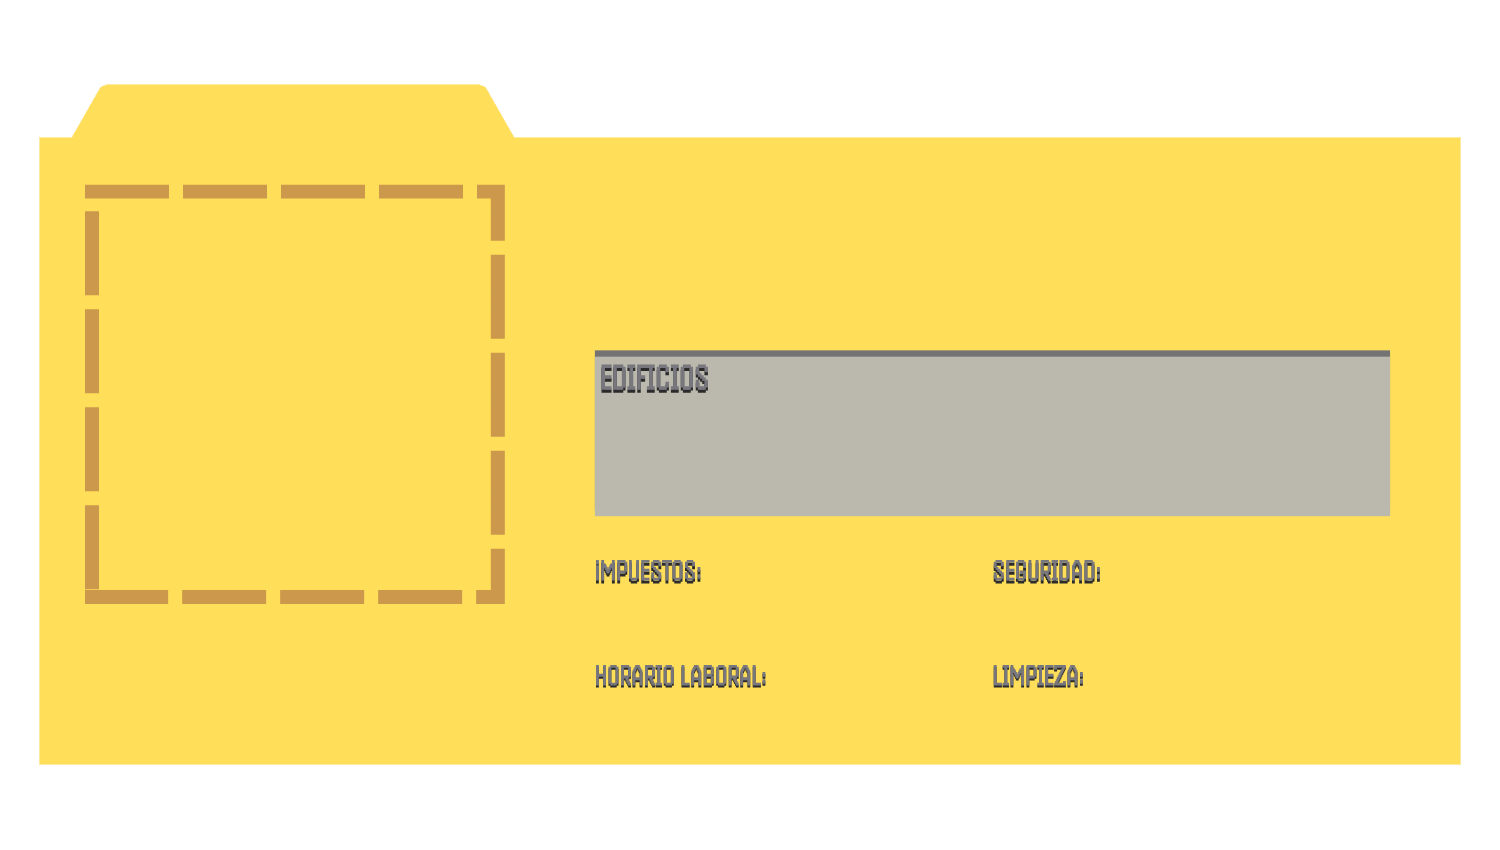
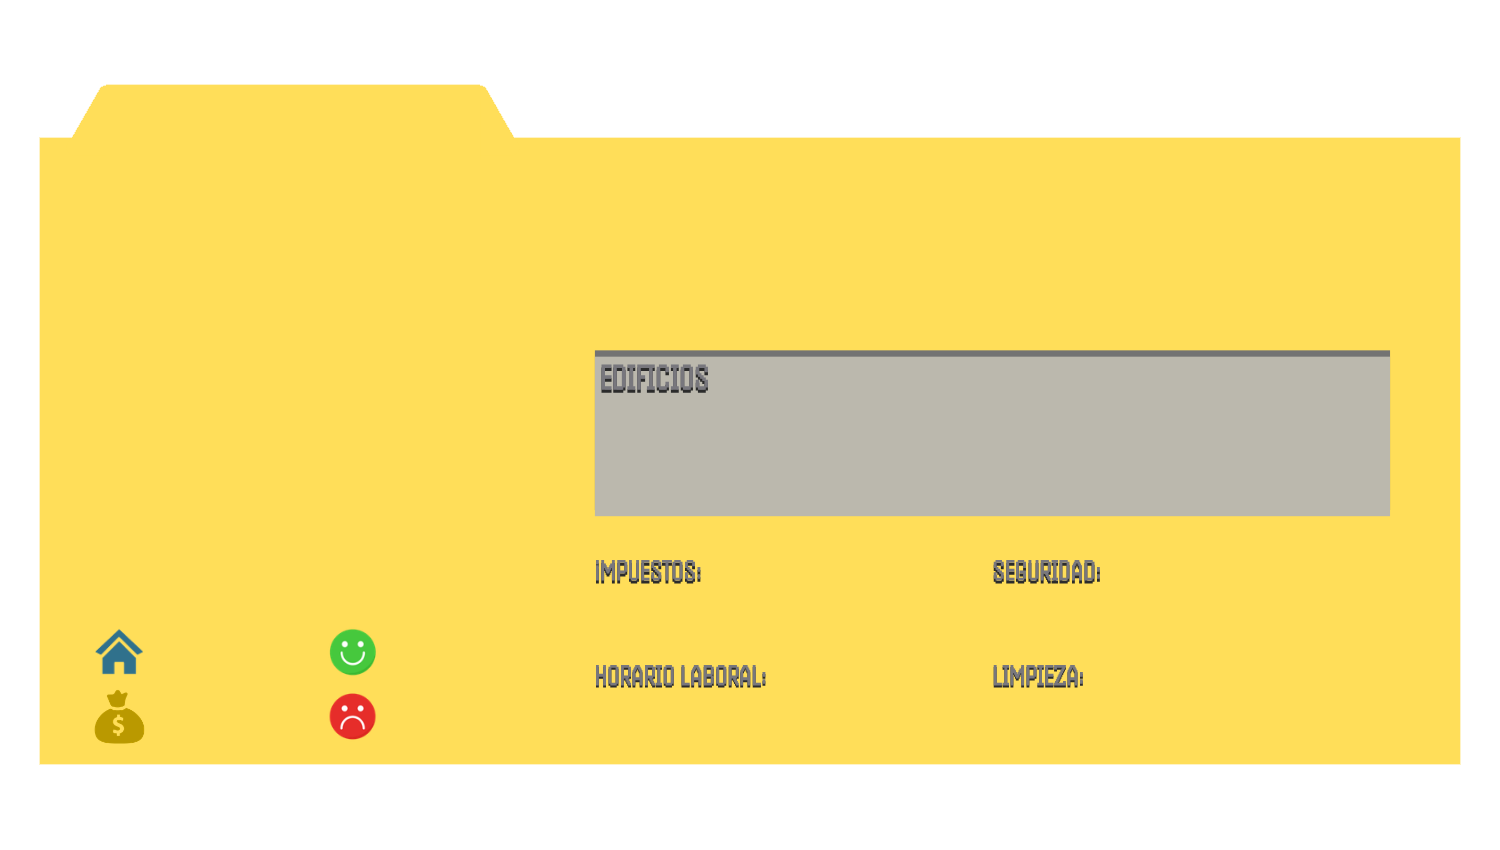
Iconos de info de distrito

Changed region(s): [[0.0307, 0.2141, 0.3373, 0.8871], [0.0307, 0.4894, 0.092, 0.5812], [0.0307, 0.3671, 0.092, 0.4588]]

diff --git a/src/scene/districtScene.js b/src/scene/districtScene.js
@@ -201,40 +201,40 @@ export default class DistrictScene extends Phaser.Scene {
         }); 
         return descText;
     }  
-    spawnScene(newWidth,newHeight,offsetX,offsetY){
+    spawnScene(newWidth,newHeight,offsetX,offsetY) {
         const list = this.district.getSceneList();
         const randomIndex = Math.floor(Math.random() * list.length);
         this.districtScene = this.add.image(newWidth-newWidth/2-offsetX*4-35,newHeight-newHeight/2-offsetY,list[randomIndex]);
         return this.districtScene;
     }
-    spawnDetailText(newWidth,newHeight,offsetX,offsetY){
+    spawnDetailText(newWidth,newHeight,offsetX,offsetY) {
         //POBLACION TOTAL
-        const populationText = this.add.text(newWidth/10, newHeight - newHeight/3 + offsetY*5, 'Poblacion: ' + this.district.getPopulation(), {
-            fontSize: '20px',
-            fontFamily: 'Impact',
-            fontStyle: 'italic',
-            color: '#000000'
+        const populationText = this.add.text(newWidth/10 + 80, newHeight - newHeight/3 + offsetY*5 + 5, this.district.getPopulation(), {
+            fontSize: '29px',
+            fontFamily: 'Handjet',
+            fontStyle: 'bold',
+            color: '#30718c'
         }).setDepth(1000);  
         // DINERO QUE SE GANA POR CICLO
-        const moneyText = this.add.text(newWidth/10, newHeight - newHeight/3 + offsetY*7, 'Dinero: ' + this.district.getMoneyGenerated(), {
-            fontSize: '20px',
-            fontFamily: 'Impact',
-            fontStyle: 'italic',
-            color: '#000000'
+        const moneyText = this.add.text(newWidth/10 + 80, newHeight - newHeight/3 + offsetY*9 + 5, this.district.getMoneyGenerated(), {
+            fontSize: '29px',
+            fontFamily: 'Handjet',
+            fontStyle: 'bold',
+            color: '#ba9900'
         }).setDepth(1000);  
         // HABITANTES A FAVOR
-        const inFavorText = this.add.text(newWidth/10 + offsetX*3, newHeight - newHeight/3 + offsetY*5, 'A favor: ' + this.district.getPopulation() * this.district.getSatisfaction() / 100, {
-            fontSize: '20px',
-            fontFamily: 'Impact',
-            fontStyle: 'italic',
-            color: '#000000'
+        const inFavorText = this.add.text(newWidth/10 + offsetX*3 + 70, newHeight - newHeight/3 + offsetY*5 + 5, this.district.getPopulation() * this.district.getSatisfaction() / 100, {
+            fontSize: '29px',
+            fontFamily: 'Handjet',
+            fontStyle: 'bold',
+            color: '#46c83d'
         }).setDepth(1000);  
         // HABITANTES EN CONTRA/NEUTROS
-        const noFavorText = this.add.text(newWidth/10 + offsetX*3, newHeight - newHeight/3 + offsetY*7, 'En contra/Neutros: ' + this.district.getPopulation() * (100 - this.district.getSatisfaction()) / 100, {
-            fontSize: '20px',
-            fontFamily: 'Impact',
-            fontStyle: 'italic',
-            color: '#000000'
+        const noFavorText = this.add.text(newWidth/10 + offsetX*3 + 70, newHeight - newHeight/3 + offsetY*9 + 5, this.district.getPopulation() * (100 - this.district.getSatisfaction()) / 100, {
+            fontSize: '29px',
+            fontFamily: 'Handjet',
+            fontStyle: 'bold',
+            color: '#e62d2a'
         }).setDepth(1000);  
         return { populationText, moneyText, inFavorText, noFavorText };
     }
